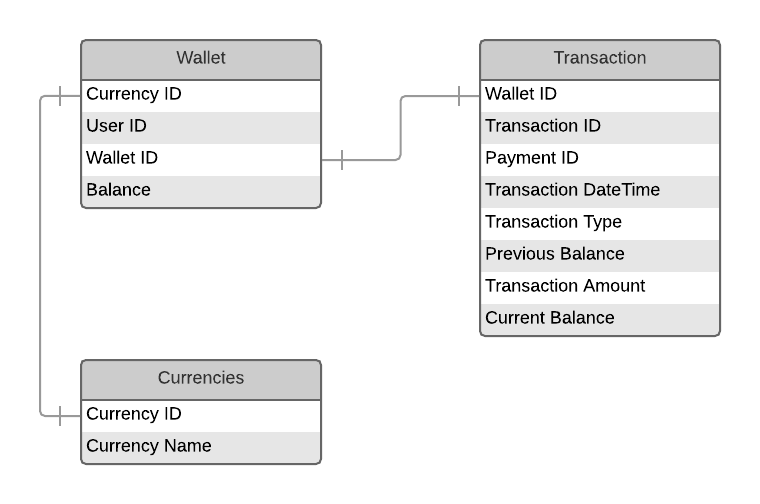
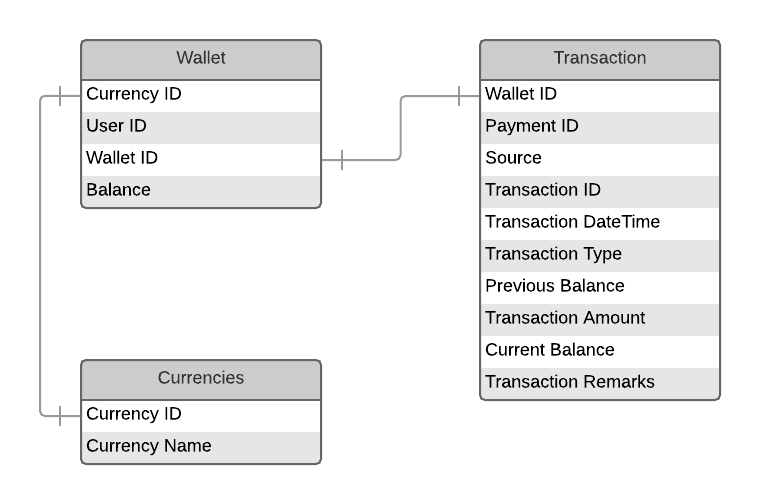
Update README.md

diff --git a/README.md b/README.md
@@ -168,6 +168,8 @@ definitions:
         type: number
       source:
         type: string
+      paymentId:
+        type: string
       TransctionRemarks:
         type: string
   #resposne
